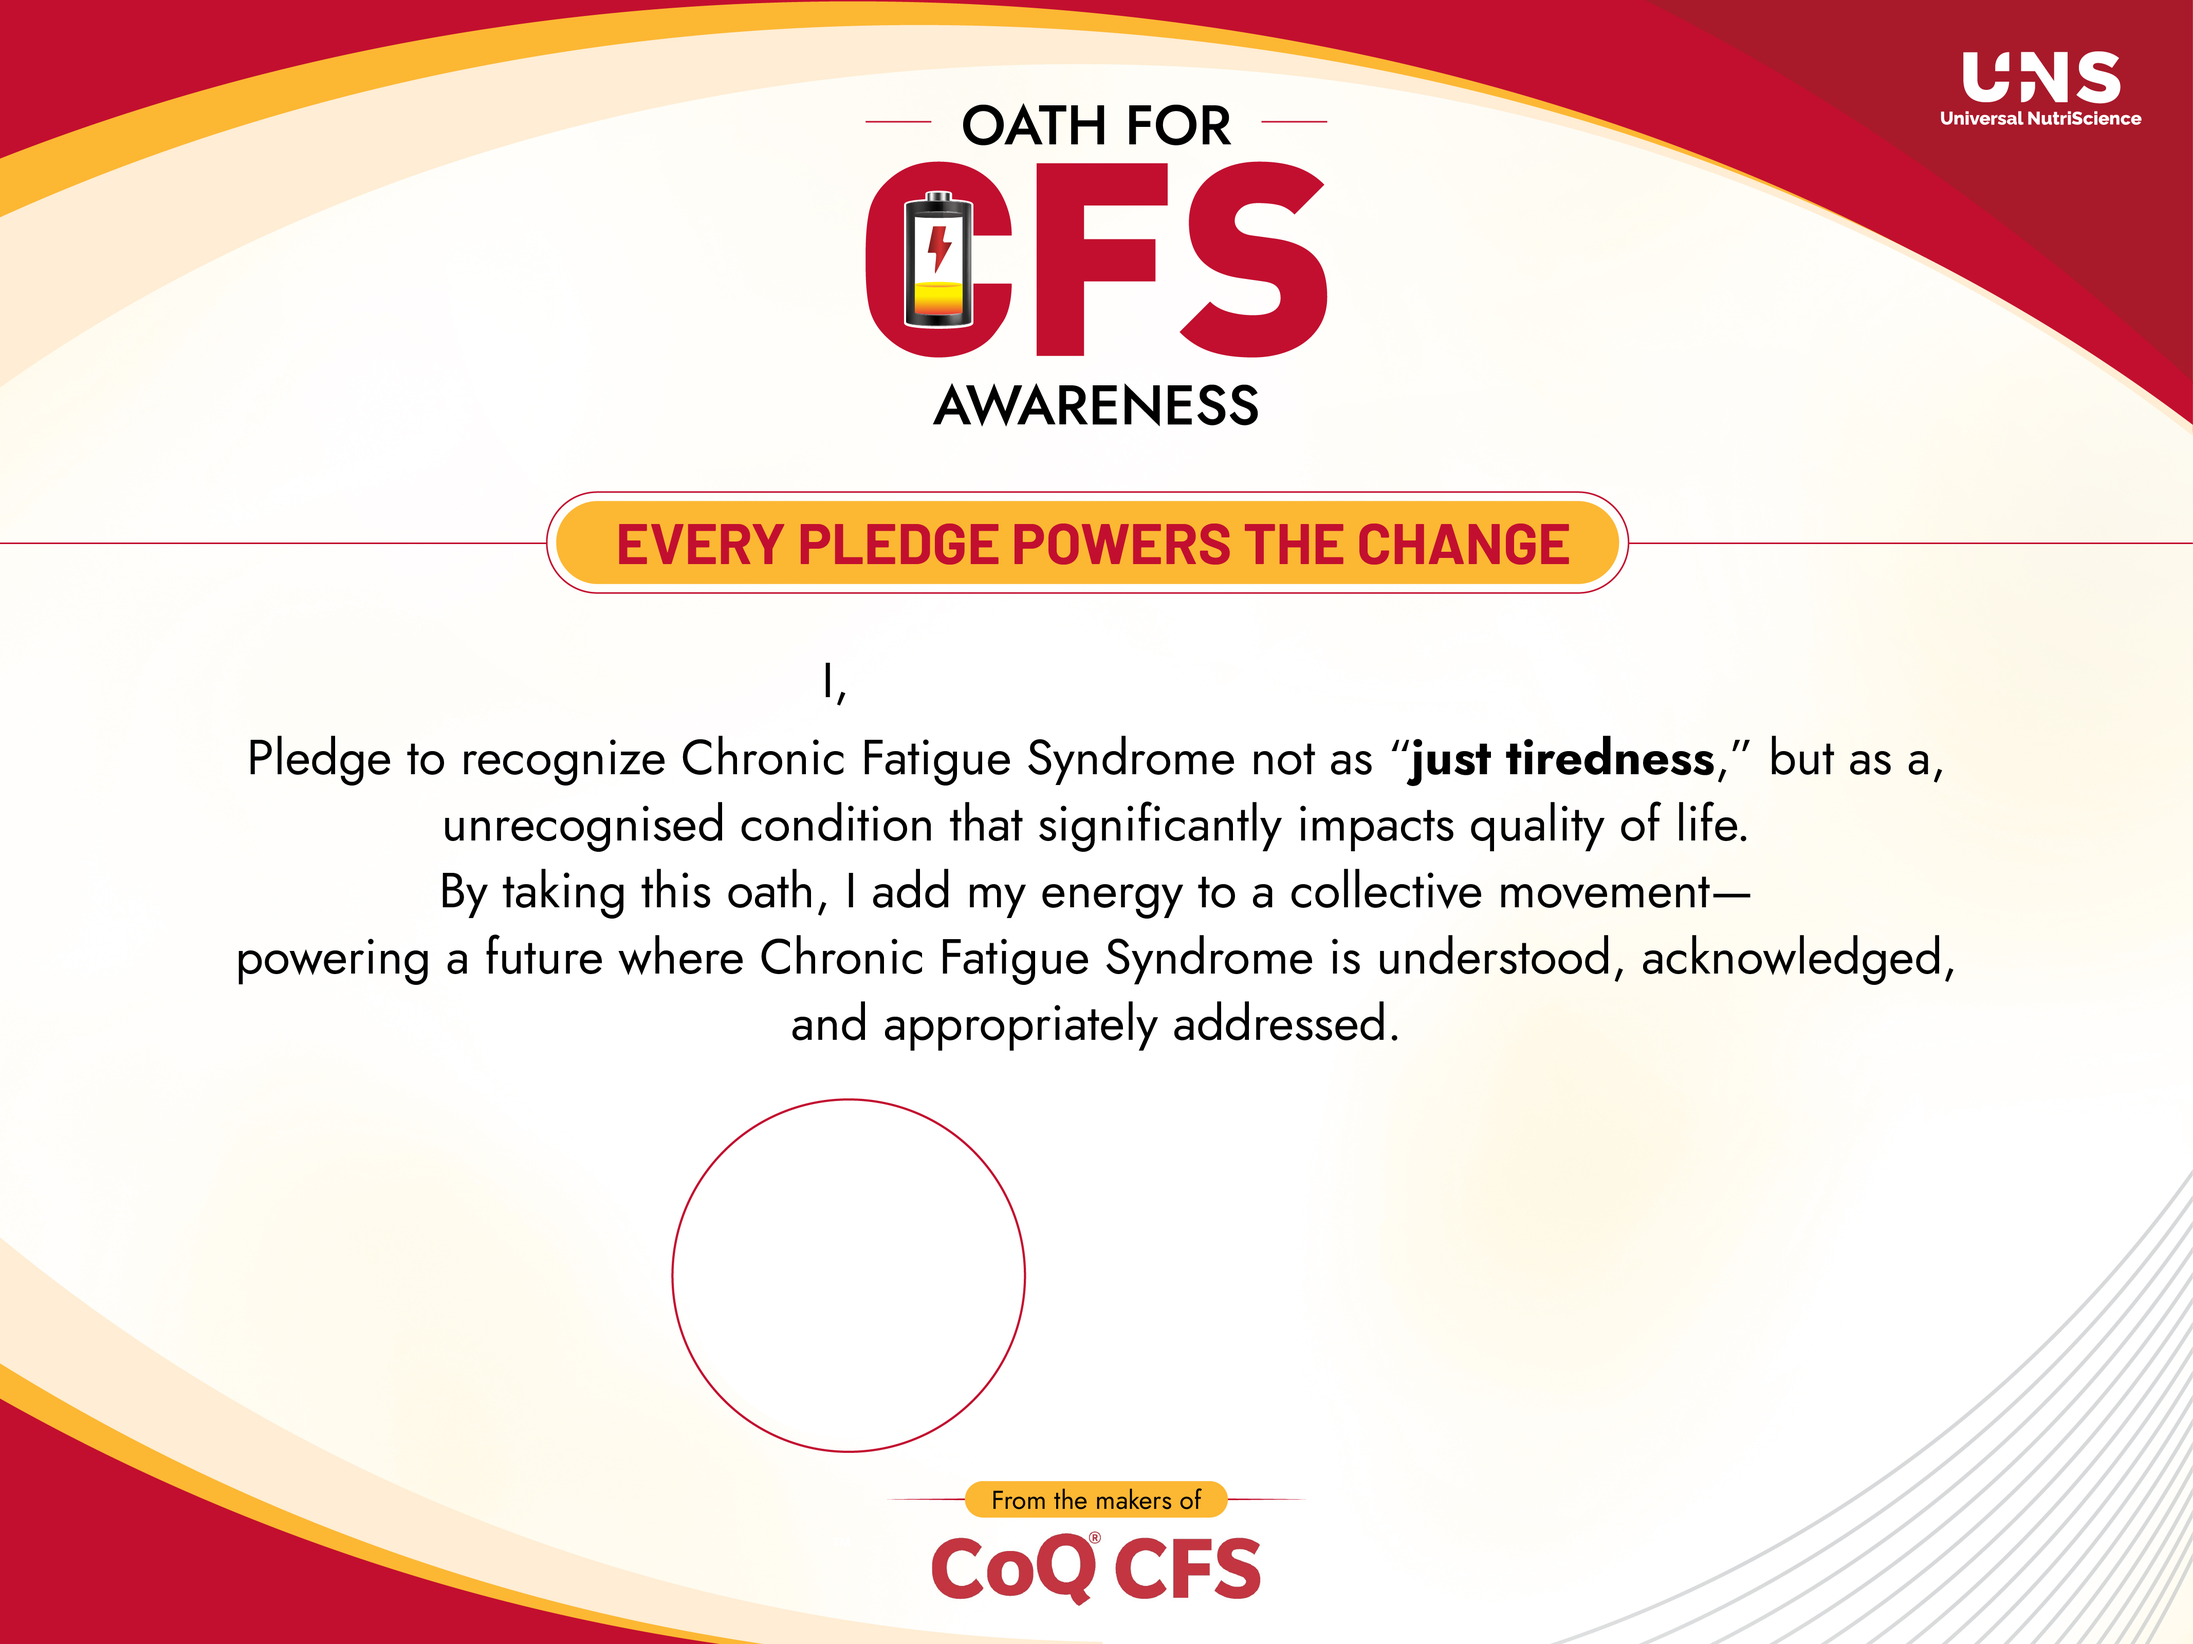
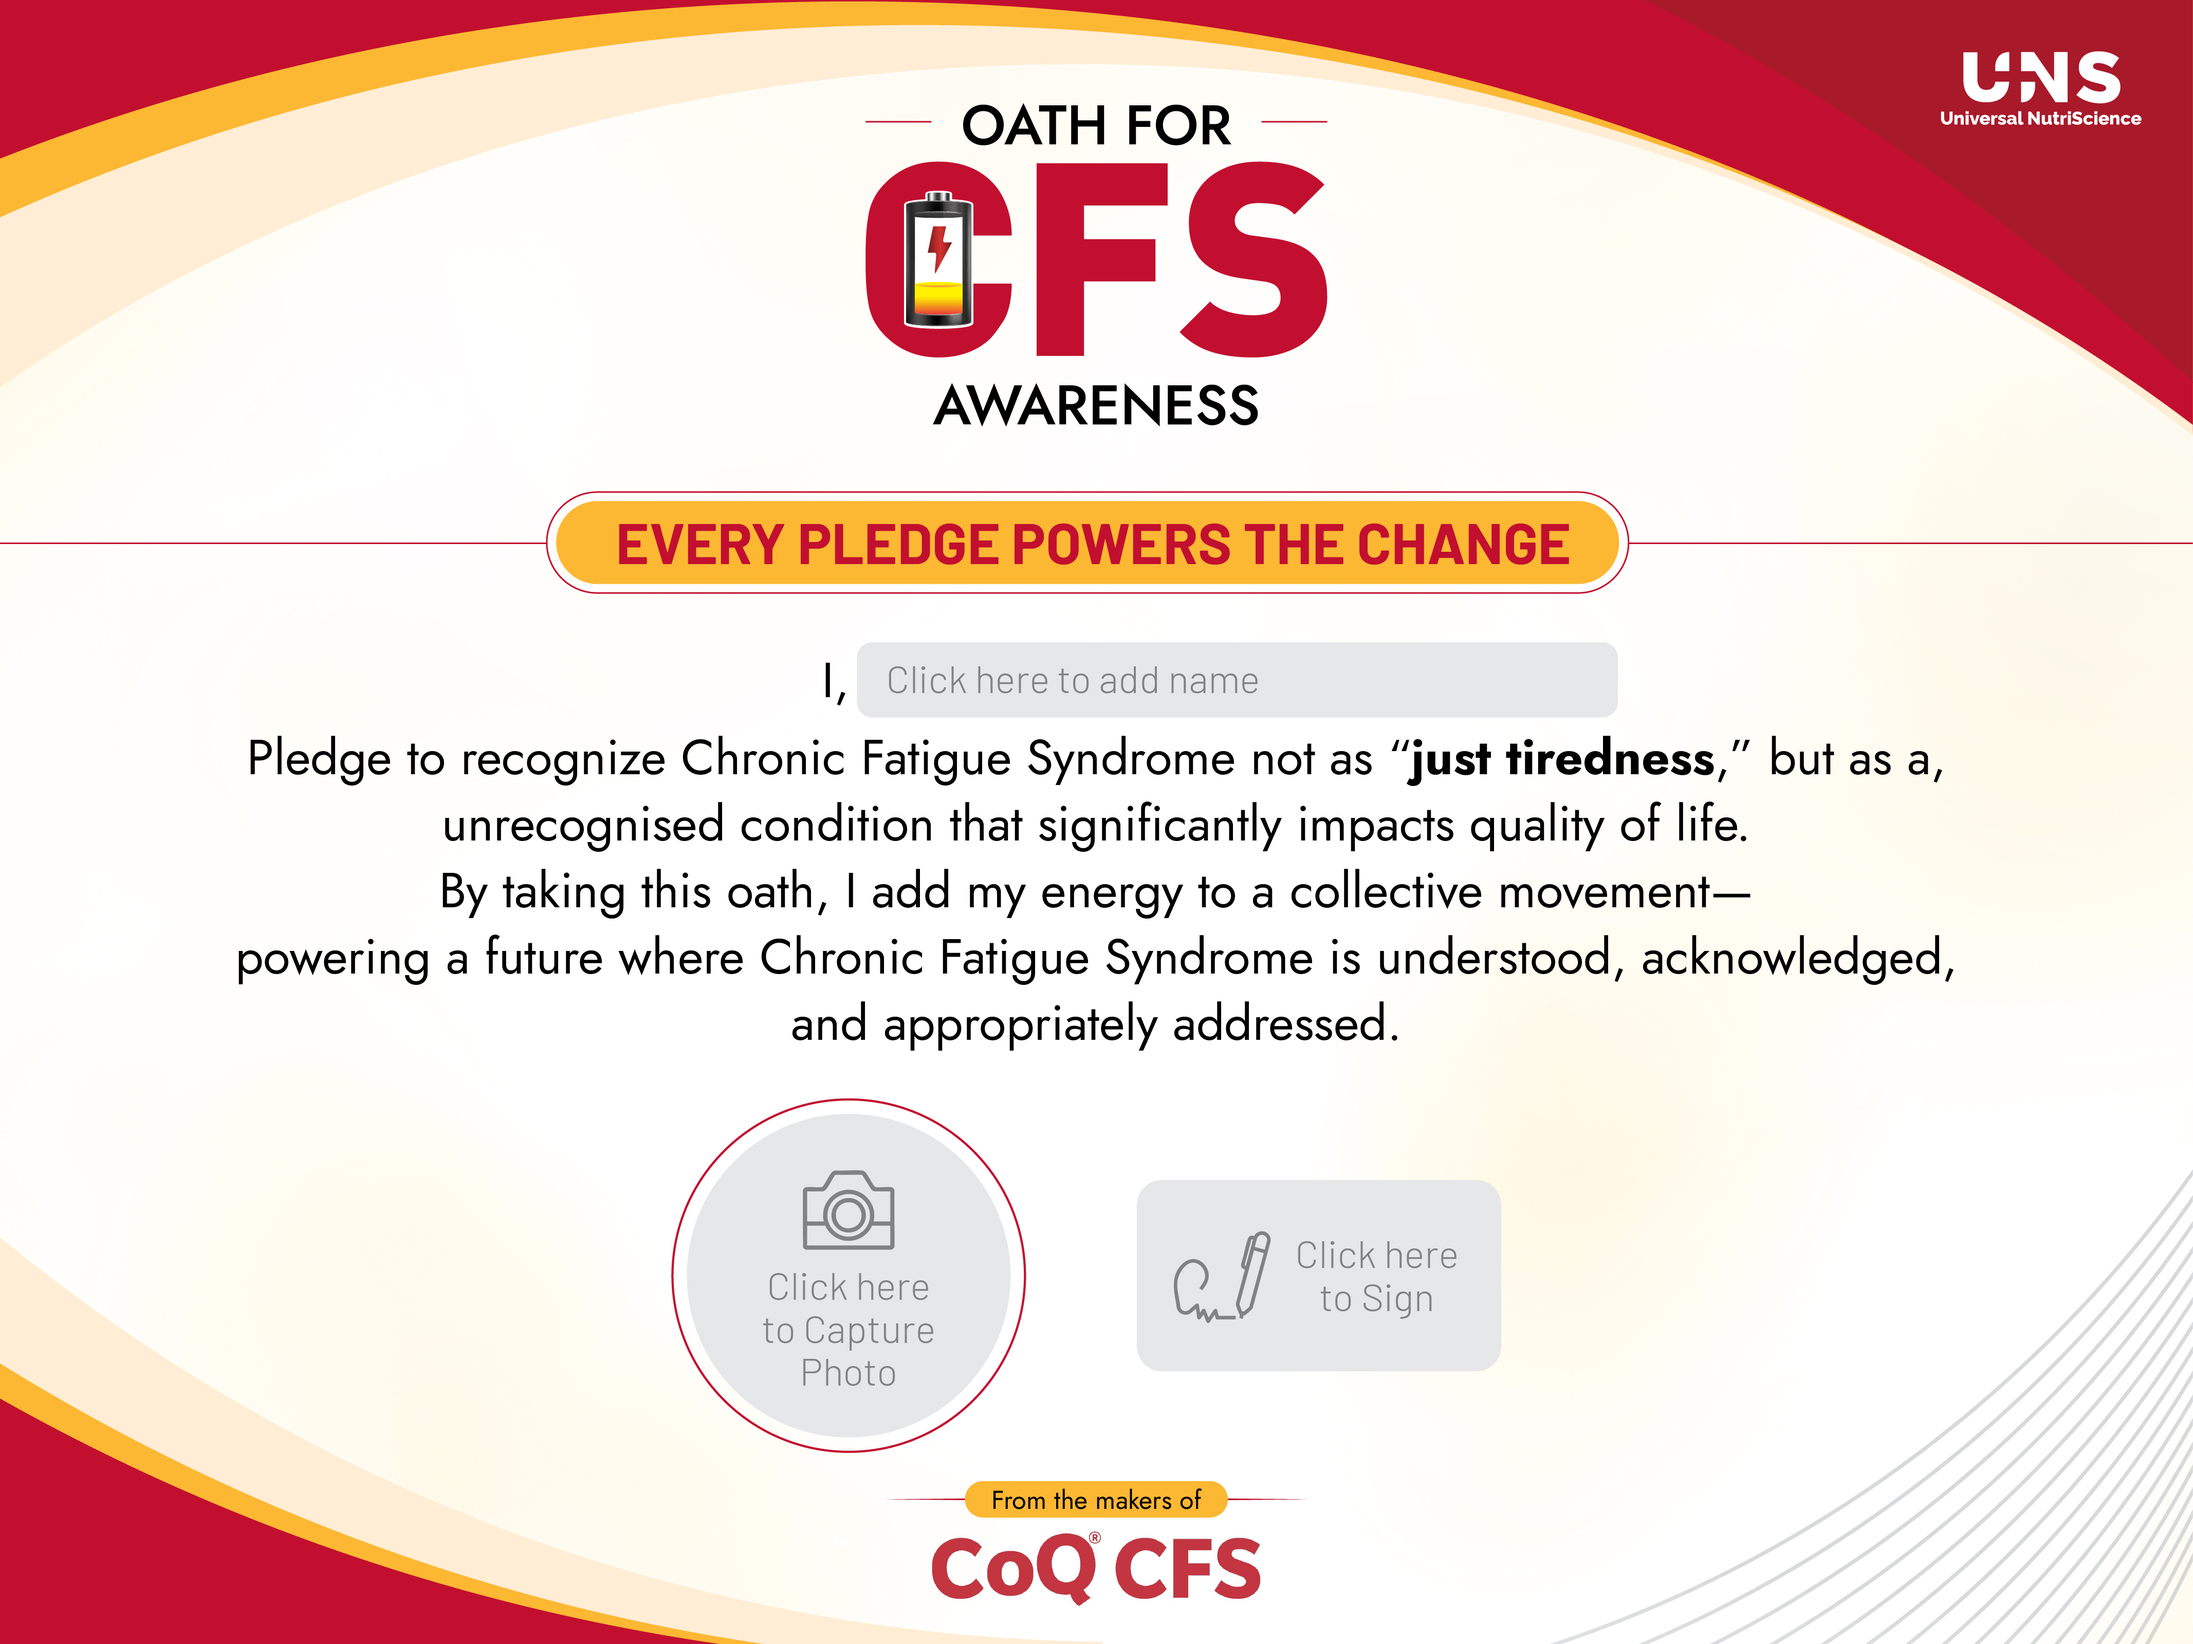
Adjusted positions for final certficiate

Changed region(s): [[0.3117, 0.6562, 0.4675, 0.875], [0.4987, 0.7188, 0.6857, 0.8438], [0.374, 0.375, 0.7481, 0.4375]]

diff --git a/app/page.js b/app/page.js
@@ -374,27 +374,27 @@ export default function CertificatePledgeApp() {
 
   // Clickable area positions (where users click to edit)
   const clickableAreas = {
-    name: { left: 38, top: 37, width: 35, height: 6 },
-    photo: { left: 32, top: 63, width: 17, height: 20 },
-    signature: { left: 53, top: 68, width: 17, height: 10 }
+    name: { left: 39, top: 37, width: 35, height: 6 },
+    photo: { left:30.5, top: 68, width: 16, height: 20 },
+    signature: { left: 51, top: 72, width: 18, height: 11 }
   };
 
   // Final render positions (where elements appear on generated certificate)
   const finalPositions = {
     name: {
-      x: 41,        // Horizontal position (0-100)
-      y: 41.4,      // Vertical position (0-100)
+      x: 40,        // Horizontal position (0-100)
+      y: 42.5,      // Vertical position (0-100)
       fontSize: 2.8 // Font size as % of image width
     },
     photo: {
-      x: 40.5,      // Center X position (0-100)
-      y: 73,      // Center Y position (0-100)
+      x: 38.7,      // Center X position (0-100)
+      y: 77.5,      // Center Y position (0-100)
       radius: 8   // Radius as % of image width
     },
     signature: {
-      x: 53,      // Left edge X position (0-100)
-      y: 67.5,      // Top edge Y position (0-100)
-      width: 26,    // Width as % of image width (increased from 17)
+      x: 51,      // Left edge X position (0-100)
+      y: 72,      // Top edge Y position (0-100)
+      width: 18,    // Width as % of image width (increased from 17)
       height: 15  // Height as % of image height (increased from 8)
     }
   };
